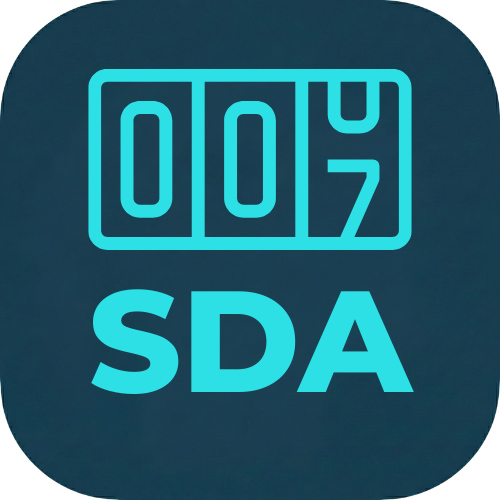
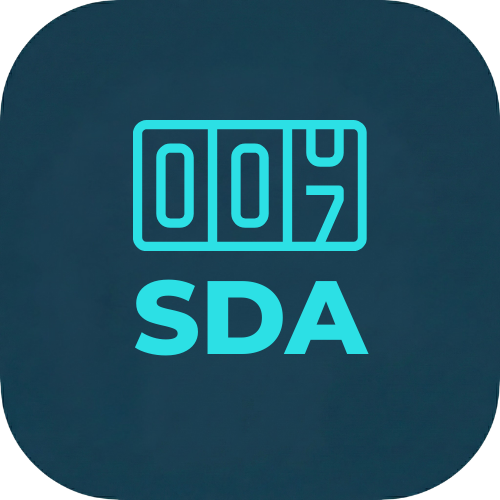
feat: implementacion nivel dios de base de conocimiento de mantenimientos, fix layout modal y actualizacion assets moviles

Changed region(s): [[0.15, 0.12, 0.84, 0.51], [0.18, 0.54, 0.84, 0.81]]

diff --git a/frontend-sda/src/modules/admin/pages/mantenimiento/MantenimientoAdmin.jsx b/frontend-sda/src/modules/admin/pages/mantenimiento/MantenimientoAdmin.jsx
@@ -4,13 +4,14 @@ import {
     Title, Paper, Text, Group, Button, Table, Badge, ActionIcon,
     Tooltip, Modal, NumberInput, Select, Textarea, LoadingOverlay,
     Grid, Alert, Pagination, Stack, TextInput, HoverCard, Progress,
-    ThemeIcon, Divider, Avatar, Box, Center, RingProgress
+    ThemeIcon, Divider, Avatar, Box, Center, RingProgress, Autocomplete
 } from '@mantine/core';
 import { useDisclosure } from '@mantine/hooks';
 import {
     IconRefresh, IconSettings, IconTool, IconAlertTriangle, IconCheck,
     IconHistory, IconEdit, IconDeviceFloppy, IconPlus, IconTrash,
-    IconGauge, IconCalendar, IconCurrencyDollar, IconNote, IconSearch, IconX
+    IconGauge, IconCalendar, IconCurrencyDollar, IconNote, IconSearch, IconX,
+    IconDatabase, IconBooks
 } from '@tabler/icons-react';
 import { apiSistema } from '../../../../core/api/apiSistema';
 import axios from 'axios';
@@ -111,10 +112,31 @@ const MantenimientoAdmin = () => {
     const [nuevoTipoUltimoKm, setNuevoTipoUltimoKm] = useState(0); // <-- Nuevo estado para baseline
     const [editandoConfig, setEditandoConfig] = useState(null);
     const [nuevaFrecuenciaEdit, setNuevaFrecuenciaEdit] = useState(0);
-    const [nuevaUltimoKmEdit, setNuevaUltimoKmEdit] = useState(0); // <-- Nuevo estado para editar baseline
+    const [nuevaUltimoKmEdit, setNuevaUltimoKmEdit] = useState(0);
+
+    // Knowledge Base State
+    const [tiposMantenimiento, setTiposMantenimiento] = useState([]);
+    const [openedTipos, { open: openTipos, close: closeTipos }] = useDisclosure(false);
+    const [nuevoTipoBase, setNuevoTipoBase] = useState({ nombre: '', frecuenciaKmDefault: 10000 });
+    const [editandoTipoBase, setEditandoTipoBase] = useState(null);
 
     // Initial Fetch
-    useEffect(() => { fetchVehiculos(paginaActual); }, [paginaActual]);
+    useEffect(() => {
+        fetchVehiculos(paginaActual);
+        fetchTiposMantenimiento();
+    }, [paginaActual]);
+
+    const fetchTiposMantenimiento = async () => {
+        try {
+            const token = localStorage.getItem('token');
+            const res = await axios.get(apiSistema('/api/mantenimientos-tipo'), {
+                headers: { Authorization: `Bearer ${token}` }
+            });
+            setTiposMantenimiento(res.data);
+        } catch (e) {
+            console.error("Error fetching types", e);
+        }
+    };
 
     const fetchVehiculos = async (pagina = paginaActual) => {
         setCargando(true);
@@ -241,6 +263,50 @@ const MantenimientoAdmin = () => {
         }
     };
 
+    // Tipos Mantenimiento Actions
+    const handleAddTipoBase = async () => {
+        try {
+            const token = localStorage.getItem('token');
+            await axios.post(apiSistema('/api/mantenimientos-tipo'), nuevoTipoBase, {
+                headers: { Authorization: `Bearer ${token}` }
+            });
+            notifications.show({ title: 'Éxito', message: 'Tipo agregado a la base de conocimiento', color: 'green' });
+            setNuevoTipoBase({ nombre: '', frecuenciaKmDefault: 10000 });
+            fetchTiposMantenimiento();
+        } catch (e) {
+            notifications.show({ title: 'Error', message: e.response?.data?.error || 'No se pudo agregar', color: 'red' });
+        }
+    };
+
+    const handleDeleteTipoBase = async (id) => {
+        if (!window.confirm("¿Seguro que querés eliminar este tipo de la base de conocimiento?")) return;
+        try {
+            const token = localStorage.getItem('token');
+            await axios.delete(apiSistema(`/api/mantenimientos-tipo/${id}`), {
+                headers: { Authorization: `Bearer ${token}` }
+            });
+            notifications.show({ title: 'Eliminado', color: 'blue' });
+            fetchTiposMantenimiento();
+        } catch (e) {
+            notifications.show({ title: 'Error', color: 'red' });
+        }
+    };
+
+    const handleUpdateTipoBase = async () => {
+        if (!editandoTipoBase) return;
+        try {
+            const token = localStorage.getItem('token');
+            await axios.put(apiSistema(`/api/mantenimientos-tipo/${editandoTipoBase._id}`), editandoTipoBase, {
+                headers: { Authorization: `Bearer ${token}` }
+            });
+            notifications.show({ title: 'Actualizado', color: 'green' });
+            setEditandoTipoBase(null);
+            fetchTiposMantenimiento();
+        } catch (e) {
+            notifications.show({ title: 'Error', color: 'red' });
+        }
+    };
+
     // Open Handlers
     const openKmModalHandler = (v) => { setSelectedVehiculo(v); setNuevoKm(v.kilometrajeActual); openKm(); };
     const openServiceModalHandler = (v) => {
@@ -276,6 +342,9 @@ const MantenimientoAdmin = () => {
                         value={searchText}
                         onChange={(e) => setSearchText(e.currentTarget.value)}
                     />
+                    <Button variant="outline" color="indigo" leftSection={<IconBooks size={18} />} onClick={openTipos}>
+                        Base de Conocimiento
+                    </Button>
                     <Button variant="light" color="cyan" leftSection={<IconRefresh size={16} />} onClick={() => fetchVehiculos(paginaActual)}>
                         Actualizar
                     </Button>
@@ -462,7 +531,7 @@ const MantenimientoAdmin = () => {
             </Modal>
 
             {/* 3. CONFIG MODAL */}
-            <Modal opened={modalConfigOpened} onClose={closeConfig} title={<Text fw={700}>Configuración de Mantenimiento</Text>} size="lg" centered>
+            <Modal opened={modalConfigOpened} onClose={closeConfig} title={<Text fw={700}>Configuración de Mantenimiento</Text>} size="xl" centered>
                 {selectedVehiculo && (
                     <Stack>
                         <Group justify="space-between" align="center">
@@ -474,9 +543,9 @@ const MantenimientoAdmin = () => {
                                 <Table.Thead bg="gray.0">
                                     <Table.Tr>
                                         <Table.Th>Tipo</Table.Th>
-                                        <Table.Th>Frecuencia</Table.Th>
-                                        <Table.Th>Punto de Partida (KM)</Table.Th>
-                                        <Table.Th style={{ textAlign: 'right' }}>Acción</Table.Th>
+                                        <Table.Th style={{ width: 150 }}>Frecuencia</Table.Th>
+                                        <Table.Th style={{ width: 180 }}>Punto de Partida (KM)</Table.Th>
+                                        <Table.Th style={{ width: 100, textAlign: 'right' }}>Acción</Table.Th>
                                     </Table.Tr>
                                 </Table.Thead>
                                 <Table.Tbody>
@@ -514,7 +583,7 @@ const MantenimientoAdmin = () => {
                                                     )}
                                                 </Table.Td>
                                                 <Table.Td style={{ textAlign: 'right' }}>
-                                                    <Group gap={5} justify="flex-end">
+                                                    <Group gap={5} justify="flex-end" wrap="nowrap">
                                                         {editandoConfig?.nombre === c.nombre ? (
                                                             <>
                                                                 <ActionIcon size="md" variant="filled" color="green" onClick={handleEditConfig}>
@@ -532,7 +601,7 @@ const MantenimientoAdmin = () => {
                                                                 onClick={() => {
                                                                     setEditandoConfig(c);
                                                                     setNuevaFrecuenciaEdit(c.frecuenciaKm);
-                                                                    setNuevaUltimoKmEdit(c.ultimoKm || 0); // <-- Cargar baseline actual
+                                                                    setNuevaUltimoKmEdit(c.ultimoKm || 0);
                                                                 }}
                                                             >
                                                                 <IconEdit size={18} />
@@ -563,11 +632,16 @@ const MantenimientoAdmin = () => {
                             </Text>
                             <Grid align="flex-end" gutter="xs">
                                 <Grid.Col span={{ base: 12, md: 4 }}>
-                                    <TextInput
+                                    <Autocomplete
                                         label="Mantenimiento"
-                                        placeholder="Ej: Cubiertas"
+                                        placeholder="Ej: Aceite y Filtro"
+                                        data={tiposMantenimiento.map(t => t.nombre)}
                                         value={nuevoTipoNombre}
-                                        onChange={(e) => setNuevoTipoNombre(e.currentTarget.value)}
+                                        onChange={(val) => {
+                                            setNuevoTipoNombre(val);
+                                            const match = tiposMantenimiento.find(t => t.nombre === val);
+                                            if (match) setNuevoTipoFrecuencia(match.frecuenciaKmDefault);
+                                        }}
                                         styles={{ label: { fontSize: 12, fontWeight: 700 } }}
                                     />
                                 </Grid.Col>
@@ -612,6 +686,98 @@ const MantenimientoAdmin = () => {
                         </Paper>
                     </Stack>
                 )}
+            </Modal>
+
+            {/* MODAL: BASE DE CONOCIMIENTO (TIPOS) */}
+            <Modal opened={openedTipos} onClose={closeTipos} title="Base de Conocimiento de Mantenimientos" size="lg">
+                <Stack>
+                    <Paper withBorder p="md" radius="md" bg="gray.0">
+                        <Text fw={700} size="xs" mb="md" c="indigo">+ Nuevo Tipo de Mantenimiento</Text>
+                        <Grid align="flex-end" gutter="xs">
+                            <Grid.Col span={6}>
+                                <TextInput
+                                    label="Nombre"
+                                    placeholder="Ej: Correa de Distribución"
+                                    value={nuevoTipoBase.nombre}
+                                    onChange={(e) => setNuevoTipoBase({ ...nuevoTipoBase, nombre: e.currentTarget.value })}
+                                />
+                            </Grid.Col>
+                            <Grid.Col span={4}>
+                                <NumberInput
+                                    label="Frecuencia Default (KM)"
+                                    value={nuevoTipoBase.frecuenciaKmDefault}
+                                    onChange={(val) => setNuevoTipoBase({ ...nuevoTipoBase, frecuenciaKmDefault: val })}
+                                    step={1000}
+                                />
+                            </Grid.Col>
+                            <Grid.Col span={2}>
+                                <Button fullWidth color="indigo" onClick={handleAddTipoBase} disabled={!nuevoTipoBase.nombre}>
+                                    Crear
+                                </Button>
+                            </Grid.Col>
+                        </Grid>
+                    </Paper>
+
+                    <Table verticalSpacing="xs">
+                        <Table.Thead>
+                            <Table.Tr>
+                                <Table.Th>Nombre</Table.Th>
+                                <Table.Th>Frecuencia Sugerida</Table.Th>
+                                <Table.Th style={{ textAlign: 'right' }}>Acciones</Table.Th>
+                            </Table.Tr>
+                        </Table.Thead>
+                        <Table.Tbody>
+                            {tiposMantenimiento.map(t => (
+                                <Table.Tr key={t._id}>
+                                    <Table.Td>
+                                        {editandoTipoBase?._id === t._id ? (
+                                            <TextInput
+                                                size="xs"
+                                                value={editandoTipoBase.nombre}
+                                                onChange={(e) => setEditandoTipoBase({ ...editandoTipoBase, nombre: e.currentTarget.value })}
+                                            />
+                                        ) : (
+                                            <Text fw={600}>{t.nombre}</Text>
+                                        )}
+                                    </Table.Td>
+                                    <Table.Td>
+                                        {editandoTipoBase?._id === t._id ? (
+                                            <NumberInput
+                                                size="xs"
+                                                value={editandoTipoBase.frecuenciaKmDefault}
+                                                onChange={(val) => setEditandoTipoBase({ ...editandoTipoBase, frecuenciaKmDefault: val })}
+                                                step={1000}
+                                            />
+                                        ) : (
+                                            <Badge variant="light" color="indigo">{t.frecuenciaKmDefault?.toLocaleString()} KM</Badge>
+                                        )}
+                                    </Table.Td>
+                                    <Table.Td style={{ textAlign: 'right' }}>
+                                        <Group gap={4} justify="flex-end">
+                                            {editandoTipoBase?._id === t._id ? (
+                                                <>
+                                                    <ActionIcon variant="filled" color="green" onClick={handleUpdateTipoBase}>
+                                                        <IconDeviceFloppy size={14} />
+                                                    </ActionIcon>
+                                                    <ActionIcon variant="light" color="gray" onClick={() => setEditandoTipoBase(null)}>
+                                                        <IconX size={14} />
+                                                    </ActionIcon>
+                                                </>
+                                            ) : (
+                                                <ActionIcon variant="subtle" color="blue" onClick={() => setEditandoTipoBase(t)}>
+                                                    <IconEdit size={16} />
+                                                </ActionIcon>
+                                            )}
+                                            <ActionIcon variant="subtle" color="red" onClick={() => handleDeleteTipoBase(t._id)}>
+                                                <IconTrash size={16} />
+                                            </ActionIcon>
+                                        </Group>
+                                    </Table.Td>
+                                </Table.Tr>
+                            ))}
+                        </Table.Tbody>
+                    </Table>
+                </Stack>
             </Modal>
         </div>
     );

diff --git a/backend/src/controllers/logistica/tipoMantenimientoController.js b/backend/src/controllers/logistica/tipoMantenimientoController.js
@@ -1,0 +1,51 @@
+const TipoMantenimiento = require("../../models/TipoMantenimiento");
+
+exports.obtenerTodos = async (req, res) => {
+    try {
+        const tipos = await TipoMantenimiento.find().sort({ nombre: 1 });
+        res.json(tipos);
+    } catch (error) {
+        res.status(500).json({ error: "Error al obtener los tipos de mantenimiento" });
+    }
+};
+
+exports.crear = async (req, res) => {
+    try {
+        const { nombre, frecuenciaKmDefault, descripcion } = req.body;
+        const nuevoTipo = new TipoMantenimiento({ nombre, frecuenciaKmDefault, descripcion });
+        await nuevoTipo.save();
+        res.status(201).json(nuevoTipo);
+    } catch (error) {
+        if (error.code === 11000) {
+            return res.status(400).json({ error: "Ya existe un mantenimiento con ese nombre" });
+        }
+        res.status(500).json({ error: "Error al crear el tipo de mantenimiento" });
+    }
+};
+
+exports.actualizar = async (req, res) => {
+    try {
+        const { id } = req.params;
+        const { nombre, frecuenciaKmDefault, descripcion } = req.body;
+        const tipoActualizado = await TipoMantenimiento.findByIdAndUpdate(
+            id,
+            { nombre, frecuenciaKmDefault, descripcion },
+            { new: true, runValidators: true }
+        );
+        if (!tipoActualizado) return res.status(404).json({ error: "Tipo no encontrado" });
+        res.json(tipoActualizado);
+    } catch (error) {
+        res.status(500).json({ error: "Error al actualizar el tipo de mantenimiento" });
+    }
+};
+
+exports.eliminar = async (req, res) => {
+    try {
+        const { id } = req.params;
+        const tipoEliminado = await TipoMantenimiento.findByIdAndDelete(id);
+        if (!tipoEliminado) return res.status(404).json({ error: "Tipo no encontrado" });
+        res.json({ message: "Tipo eliminado correctamente" });
+    } catch (error) {
+        res.status(500).json({ error: "Error al eliminar el tipo de mantenimiento" });
+    }
+};

diff --git a/backend/src/routes/mantenimientosTipo.js b/backend/src/routes/mantenimientosTipo.js
@@ -1,0 +1,11 @@
+const express = require("express");
+const router = express.Router();
+const controller = require("../controllers/logistica/tipoMantenimientoController");
+const verificarToken = require("../middlewares/verificarToken");
+
+router.get("/", verificarToken, controller.obtenerTodos);
+router.post("/", verificarToken, controller.crear);
+router.put("/:id", verificarToken, controller.actualizar);
+router.delete("/:id", verificarToken, controller.eliminar);
+
+module.exports = router;

diff --git a/backend/src/models/TipoMantenimiento.js b/backend/src/models/TipoMantenimiento.js
@@ -1,0 +1,20 @@
+const mongoose = require("mongoose");
+
+const TipoMantenimientoSchema = new mongoose.Schema({
+    nombre: {
+        type: String,
+        required: true,
+        unique: true,
+        trim: true
+    },
+    frecuenciaKmDefault: {
+        type: Number,
+        default: 10000
+    },
+    descripcion: {
+        type: String,
+        trim: true
+    }
+}, { timestamps: true });
+
+module.exports = mongoose.model("TipoMantenimiento", TipoMantenimientoSchema);

diff --git a/backend/src/routes/index.js b/backend/src/routes/index.js
@@ -13,6 +13,7 @@ router.use("/envios", require("./envios"));
 router.use("/remitos", require("./remitos"));
 router.use("/destinatarios", require("./destinatarios"));
 router.use("/hojas-reparto", require("./hojaRepartoRoutes"));
+router.use("/mantenimientos-tipo", require("./mantenimientosTipo"));
 router.use("/seguimiento", require("./seguimiento"));
 
 // Rutas de Reportes
